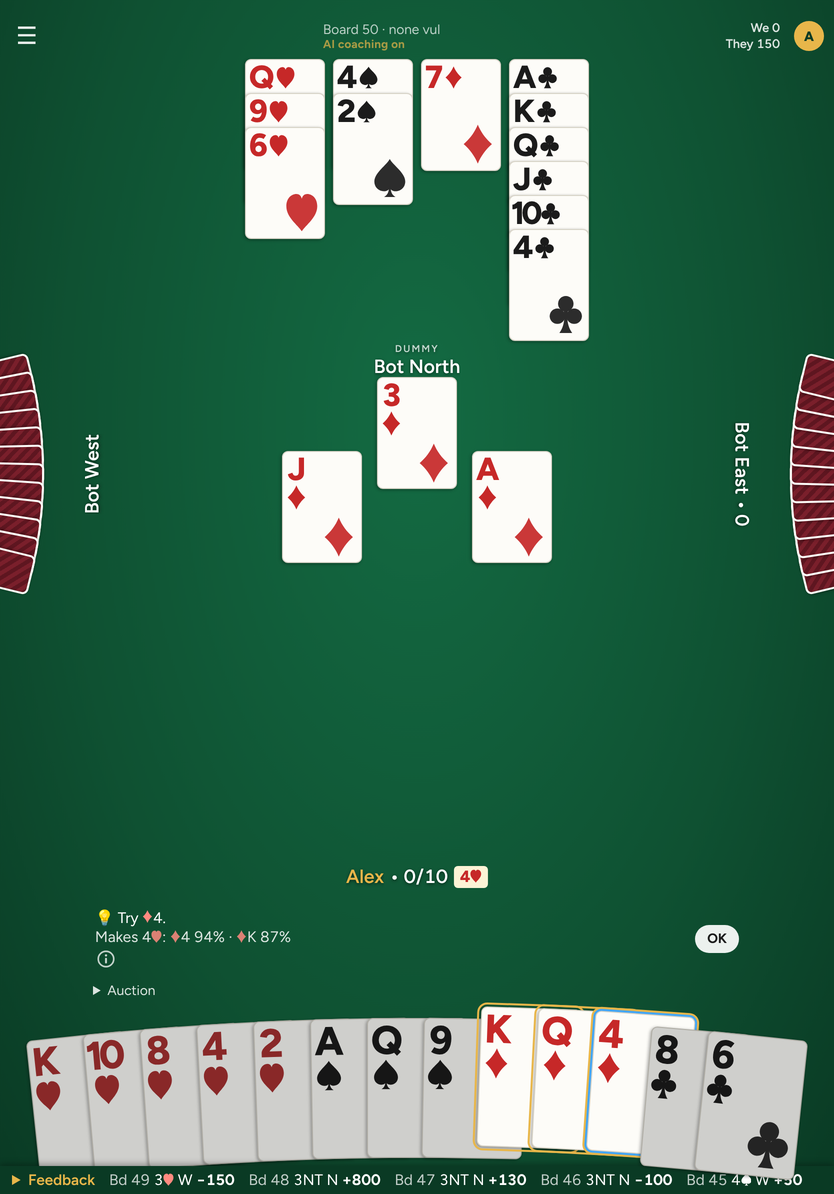
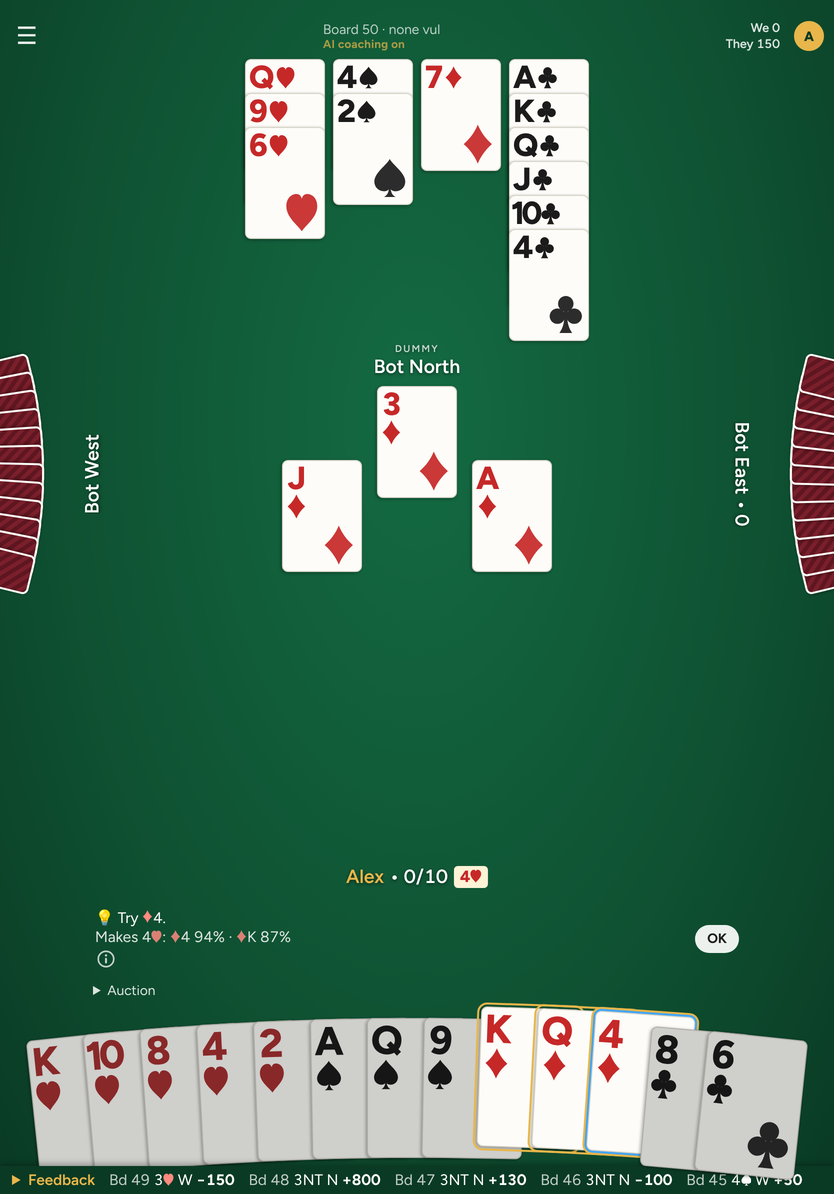
Refresh from the private copy (version 2.48) (#2)

diff --git a/web/src/components/TableView.tsx b/web/src/components/TableView.tsx
@@ -1,4 +1,4 @@
-import { lazy, Suspense, useCallback, useEffect, useMemo, useRef, useState } from "react";
+import { lazy, Suspense, useCallback, useEffect, useLayoutEffect, useMemo, useRef, useState } from "react";
 import { SEAT_NAME, SUIT_SYMBOL, callLabel, cardLabel, compass, isRed, partnerOf, sameSide, signed } from "../cards";
 import { loadToken, type Account, type FriendsView } from "../account";
 import { REMEMBERED, reducedMotion, usePrefs } from "../prefs";
@@ -11,6 +11,7 @@ import BidTiles from "./BidTiles";
 import DealAnimation from "./DealAnimation";
 import CardWhy from "./CardWhy";
 import Dummy from "./Dummy";
+import { useDummyFit } from "./useDummyFit";
 import { HintsInfo } from "./Explain";
 import Fan from "./Fan";
 import Feedback from "./Feedback";
@@ -54,7 +55,9 @@ interface Props {
   inviting?: boolean; // the lobby's Invite for a friend with notifications off: open Invite to game to send a link
   coachOff?: boolean; // a table the AI coach can't see now (on this phone with no internet, or not signed in)
   onLocalInvite?: () => Promise<boolean>; // Invite at a bot table on this phone: true once it moved to the server
-  where?: "local" | "wifi"; // the table is on this phone, or on a partner's phone over the Wi-Fi (offline.ts, wifi.ts)
+  // the table is on this phone, or on a partner's phone over the Wi-Fi (offline.ts, wifi.ts), or a bot table of this
+  // phone's kept on the server for an invite (App.tsx)
+  where?: "local" | "wifi" | "invite";
 }
 
 
@@ -137,6 +140,9 @@ export default function TableView({ state, hint, hintPending, askHint, error, co
   const wide = useMedia("(min-width: 820px) and (min-height: 600px)");
   const short = useMedia("(max-height: 900px)");
   const holdTimer = useRef<number | undefined>(undefined);
+  const tblRef = useRef<HTMLDivElement>(null);
+  const topDummy = (wide ? (short ? SIZES.wideShort : SIZES.wide) : SIZES.phone).dummy;
+  const dummyFit = useDummyFit(tblRef, topDummy[0], topDummy[1]); // a long suit in dummy stays clear of the trick
   const tricksSeen = useRef<{ board: number; n: number }>({ board: 0, n: 0 });
   const lastPlaying = useRef<TableState | null>(null);
 
@@ -176,8 +182,8 @@ export default function TableView({ state, hint, hintPending, askHint, error, co
     setHolding(false);
   };
 
-  // deal the cards around the table at the start of each board
-  useEffect(() => {
+  // deal the cards around the table at the start of each board (before the first paint, so the hand never shows first)
+  useLayoutEffect(() => {
     if (!t || !state || t.phase !== "bidding" || t.auction.length > 0) return;
     if (!prefs.dealAnimation || reducedMotion() || dealtBefore(`${state.room}/${t.board}`)) return;
     setDealing(true);
@@ -550,8 +556,8 @@ export default function TableView({ state, hint, hintPending, askHint, error, co
               playable={playable(s)}
               onPlay={myTurnToPlay ? play : undefined}
               hinted={hintedCard}
-              w={where === "top" ? size.dummy[0] : size.sideDummy[0]}
-              h={where === "top" ? size.dummy[1] : size.sideDummy[1]}
+              w={where === "top" ? Math.round(size.dummy[0] * (dummyFit.scale ?? 1)) : size.sideDummy[0]}
+              h={where === "top" ? Math.round(size.dummy[1] * (dummyFit.scale ?? 1)) : size.sideDummy[1]}
               layout={where !== "top" ? "side" : wide ? "columns" : "row"}
             />
             {where === "top" && label(s, where, true)}
@@ -805,8 +811,8 @@ export default function TableView({ state, hint, hintPending, askHint, error, co
           }
         />
       ) : (
-        <div className={`play-layout ${bidding ? "bidding" : "playing"}`}>
-          <div className={`tbl ${view.phase === "playing" && view.dummy ? `dummy-${at[view.dummy]}` : ""}`}>
+        <div className={`play-layout ${bidding ? "bidding" : "playing"} ${dealing ? "dealing" : ""}`}>
+          <div ref={tblRef} className={`tbl ${view.phase === "playing" && view.dummy ? `dummy-${at[view.dummy]}` : ""}`}>
             {otherSeat(pos.top, "top")}
             {otherSeat(pos.left, "left")}
             {otherSeat(pos.right, "right")}
@@ -817,6 +823,7 @@ export default function TableView({ state, hint, hintPending, askHint, error, co
                 trick={shown}
                 me={me}
                 banner={banner}
+                top={dummyFit.top}
                 onTap={showingHeld ? endHold : undefined}
                 explained={view.card_why}
                 onCard={(card, seat) => setOpenCard(openCard?.card === card ? null : { card, seat })}

diff --git a/web/src/components/useDummyFit.ts b/web/src/components/useDummyFit.ts
@@ -1,0 +1,59 @@
+import { useCallback, useEffect, useLayoutEffect, useRef, useState, type RefObject } from "react";
+import { dummyStep } from "./Dummy";
+
+type Fit = { scale?: number; top?: number };
+
+/**
+ * Dummy across the top in suit columns: a long suit runs down the table and can reach the trick, which would then lie
+ * over dummy's lowest cards so they can't be tapped. When it would, the trick moves down (as far as your name at the
+ * bottom allows), and only if that isn't enough are dummy's cards drawn smaller, so every card shows in full.
+ * Returns the size to draw dummy's cards at (a fraction of w and h) and the trick's center (px from the table's top),
+ * or nothing when all is clear. w and h are dummy's usual card size.
+ */
+export function useDummyFit(tbl: RefObject<HTMLDivElement | null>, w: number, h: number): Fit {
+  const [fit, setFit] = useState<Fit>({});
+  const measure = useCallback(() => {
+    const el = tbl.current;
+    const cols = el ? [...el.querySelectorAll<HTMLElement>(".dummy-wrap.top .dummy.columns .dcol")] : [];
+    const trick = el?.querySelector<HTMLElement>(".trick-area");
+    let next: Fit = {};
+    if (el && cols.length && trick) {
+      const n = Math.max(...cols.map((c) => c.children.length));
+      const full = h + (n - 1) * dummyStep(w); // the longest column at the usual size
+      const GAP = 8; // between dummy's name and the trick, and between the trick and your name
+      const TOP = 4; // .dummy-wrap.top
+      const name = el.querySelector<HTMLElement>(".dummy-wrap.top .seatlbl")?.offsetHeight ?? 0;
+      const mine = el.querySelector<HTMLElement>(".seatlbl.bottom")?.offsetHeight ?? 0;
+      const half = trick.offsetHeight / 2;
+      // where the stylesheet puts the trick (offsetTop leaves out the centering transform, so it is the center)
+      const was = trick.style.top;
+      trick.style.top = "";
+      const natural = trick.offsetTop;
+      trick.style.top = was;
+      const room = (center: number) => center - half - GAP - name - 2 - TOP; // for the column, above the trick
+      const below = (column: number) => TOP + column + 2 + name + GAP + half; // the trick's center just below it
+      const lowest = Math.max(natural, el.clientHeight - 4 - mine - GAP - half);
+      if (full > room(natural)) {
+        const scale = full > room(lowest) ? Math.max(0.55, room(lowest) / full) : 1;
+        const center = Math.min(lowest, below(full * scale));
+        next = { scale: scale < 1 ? Math.floor(scale * 100) / 100 : undefined, top: center > natural ? Math.round(center) : undefined };
+      }
+    }
+    setFit((f) => (f.scale === next.scale && f.top === next.top ? f : next));
+  }, [tbl, w, h]);
+  // after every render (a card played, the hand turned) and whenever the table changes size
+  useLayoutEffect(measure);
+  const watched = useRef<{ el: HTMLElement; ro: ResizeObserver } | null>(null);
+  useEffect(() => {
+    const el = tbl.current;
+    if (watched.current?.el === el) return;
+    watched.current?.ro.disconnect();
+    watched.current = null;
+    if (!el || typeof ResizeObserver === "undefined") return;
+    const ro = new ResizeObserver(() => measure());
+    ro.observe(el);
+    watched.current = { el, ro };
+  });
+  useEffect(() => () => watched.current?.ro.disconnect(), []);
+  return fit;
+}

diff --git a/web/src/App.tsx b/web/src/App.tsx
@@ -160,16 +160,34 @@ export default function App() {
     // eslint-disable-next-line react-hooks/exhaustive-deps
   }, [session?.local, session?.token, phase]);
 
+  // a table that went to the server for an invite stays there until someone joins it. Once they have, it's an
+  // ordinary table with people: when it's down to you and the bots again, it comes back to this phone (below).
+  const people = state?.room === session?.room ? Object.keys(state?.players ?? {}).length : 0;
+  useEffect(() => {
+    if (session?.stay && people > 1) update({ ...session, stay: undefined });
+    // eslint-disable-next-line react-hooks/exhaustive-deps
+  }, [session?.stay, people]);
+
   // the other way: a bot table on the server comes to this phone between boards (bots play here by default), unless
-  // it went there for an invite. The server sends this phone a copy of it after each change (connection.ts).
+  // it went there for an invite. The server sends this phone a copy of it after each change while you're the only
+  // person at it (connection.ts), so a table a partner just left comes too, rubber score and all.
   useEffect(() => {
     if (!session || session.local || session.wifi || session.stay || session.watch || phase !== "done") return;
-    if (!botsHere() || !offlineReady() || !canCarryOn(session.room)) return;
-    carryOn(session.room);
-    history.replaceState(null, "", "/");
-    update({ ...session, local: true, fresh: undefined, user: account.user ? { id: account.user.id, name: account.user.name } : undefined });
+    if (!botsHere() || !offlineReady()) return;
+    const s = session;
+    const come = () => {
+      if (!canCarryOn(s.room)) return false;
+      carryOn(s.room);
+      history.replaceState(null, "", "/");
+      update({ ...s, local: true, fresh: undefined, user: account.user ? { id: account.user.id, name: account.user.name } : undefined });
+      return true;
+    };
+    if (come()) return;
+    // the copy comes just after the table's news, so a partner leaving as the board ends needs a moment
+    const soon = window.setTimeout(come, 1500);
+    return () => clearTimeout(soon);
     // eslint-disable-next-line react-hooks/exhaustive-deps
-  }, [session?.room, session?.local, phase]);
+  }, [session?.room, session?.local, session?.stay, phase, people]);
 
   // a bot table on this phone, signed in: a copy goes to your account after each change, so your iPad (say) can carry
   // on with it, and your AI coach can see it. If another device has carried on with it, this phone follows.
@@ -443,7 +461,7 @@ export default function App() {
         account={account}
         friends={friends}
         inviting={inviting}
-        where={session.local ? "local" : session.wifi ? "wifi" : undefined}
+        where={session.local ? "local" : session.wifi ? "wifi" : session.stay ? "invite" : undefined}
       />
       {moved && (
         <div className="sheet-backdrop moved-backdrop">

diff --git a/web/src/components/TrickArea.tsx b/web/src/components/TrickArea.tsx
@@ -3,7 +3,7 @@ import type { Seat, Trick } from "../types";
 import PlayingCard from "./PlayingCard";
 
 /** The cards of one trick in the middle of the table, each in front of the seat that played it. */
-export default function TrickArea({ trick, me, banner, onTap, costly, onCard, explained }: {
+export default function TrickArea({ trick, me, banner, onTap, costly, onCard, explained, top }: {
   trick: Trick | null;
   costly?: string; // ringed: the card a review is about
   me: Seat;
@@ -11,11 +11,12 @@ export default function TrickArea({ trick, me, banner, onTap, costly, onCard, ex
   onTap?: () => void;
   onCard?: (card: string, seat: Seat) => void; // tap a bot's played card: how it picked it
   explained?: Record<string, unknown>; // the cards that can be tapped
+  top?: number; // px: where the trick's center sits, when dummy's long suit pushes it down
 }) {
   const pos = compass(me);
   const where: Record<Seat, string> = { [pos.top]: "top", [pos.left]: "left", [pos.right]: "right", [pos.bottom]: "bottom" } as Record<Seat, string>;
   return (
-    <div className="trick-area" onClick={(e) => !(e.target as Element).closest?.(".pc[role=button]") && onTap?.()}>
+    <div className={`trick-area ${onTap ? "tap" : ""}`} style={top === undefined ? undefined : { top }} onClick={(e) => !(e.target as Element).closest?.(".pc[role=button]") && onTap?.()}>
       {trick?.cards.map(({ seat, card }) => (
         <PlayingCard
           key={card}

diff --git a/web/src/components/DeviceSettings.tsx b/web/src/components/DeviceSettings.tsx
@@ -38,8 +38,9 @@ export default function DeviceSettings({ prefs, onPrefs }: { prefs: Prefs; onPre
 }
 
 /** Where bot tables are played, in the ☰ menu: on this phone (the default, and the only way with no internet) or on
- * the server. A change applies at the end of the board (App.tsx moves the table). */
-export function BotsHere() {
+ * the server. A change applies at the end of the board (App.tsx moves the table). `server` says why this table is on
+ * the server for now although the box is ticked: another person is at it, or an invite is out. */
+export function BotsHere({ server }: { server?: string }) {
   const [here, setHere] = useState(botsHere);
   const [ready, setReady] = useState(offlineReady);
   const [got, setGot] = useState(0);
@@ -70,9 +71,11 @@ export function BotsHere() {
           <span className="muted">
             {!here
               ? `The server plays the bots. This ${device} takes over if the internet drops.`
-              : ready
-                ? `Bots play on this ${device}, with or without internet.`
-                : `Getting ready to play without internet… ${Math.round(got * 100)}%`}
+              : server && ready
+                ? server
+                : ready
+                  ? `Bots play on this ${device}, with or without internet.`
+                  : `Getting ready to play without internet… ${Math.round(got * 100)}%`}
           </span>
         </span>
       </label>

diff --git a/web/src/components/SettingsPanel.tsx b/web/src/components/SettingsPanel.tsx
@@ -23,7 +23,7 @@ export default function SettingsPanel({ settings, onChange, onClose, onLeave, on
   onInvite?: () => void; // signed in: pick friends to invite (otherwise Invite to game shares a link)
   onPractice?: (id: string) => void; // the home screen: start a bot table on this practice
   room?: string; // none on the home screen
-  where?: "local" | "wifi"; // a table on this phone (with no internet, Invite asks a partner on this Wi-Fi), or on a partner's
+  where?: "local" | "wifi" | "invite"; // "invite": a bot table kept on the server so a friend can join; or a table on this phone (with no internet, Invite asks a partner on this Wi-Fi), or on a partner's
 }) {
   const home = !room;
   const [conventions, setConventions] = useState<ConventionInfo[]>([]);
@@ -123,7 +123,11 @@ export default function SettingsPanel({ settings, onChange, onClose, onLeave, on
             </div>
           </div>
         )}
-        {where !== "wifi" && <BotsHere />}
+        {where !== "wifi" && (
+          <BotsHere
+            server={home || where === "local" ? undefined : others ? "On the server while a partner is here." : where === "invite" ? "On the server so a friend can join." : undefined}
+          />
+        )}
         <h3>{home ? "New tables" : "This table"}</h3>
         <p className="muted">{home ? "Your new tables start with these." : "These apply to everyone at the table."}</p>
         <label>

diff --git a/web/src/styles.css b/web/src/styles.css
@@ -251,6 +251,9 @@ a { color: var(--gold); text-underline-offset: 3px; }
 
 /* the trick */
 .trick-area { --w: 54px; --h: 76px; position: absolute; left: 50%; top: 54%; width: 176px; height: 176px; transform: translate(-50%, -50%); z-index: 4; }
+/* the empty space around the played cards lets taps through to dummy's cards, unless a tap ends a held trick */
+.trick-area:not(.tap) { pointer-events: none; }
+.trick-area > * { pointer-events: auto; }
 .trick-area .pc.top { left: calc(50% - var(--w) / 2); top: 0; }
 .trick-area .pc.bottom { left: calc(50% - var(--w) / 2); bottom: 0; }
 .trick-area .pc.left { left: 0; top: calc(50% - var(--h) / 2); }
@@ -333,6 +336,8 @@ a { color: var(--gold); text-underline-offset: 3px; }
 
 /* deal */
 .deal-overlay { position: absolute; inset: 0; z-index: 50; background: radial-gradient(ellipse at 50% 40%, var(--felt-light), var(--felt) 70%); }
+/* the hands stay hidden until the deal is done: the fan reaches past the overlay at the bottom edge */
+.play-layout.dealing .myfan, .play-layout.dealing .seatfan { visibility: hidden; }
 .deal-overlay .flyer { --w: 46px; --h: 64px; left: calc(50% - 23px); top: calc(50% - 32px); }
 .wide .deal-overlay .flyer { --w: 64px; --h: 90px; left: calc(50% - 32px); top: calc(50% - 45px); }
 

diff --git a/web/src/components/Dummy.tsx b/web/src/components/Dummy.tsx
@@ -4,6 +4,9 @@ import PlayingCard from "./PlayingCard";
 
 const HIGH = "AKQJT98765432";
 
+/** How far each card in a column (or side row) sits below (or beside) the one before it. */
+export const dummyStep = (w: number, side = false) => Math.round(w * (side ? 0.44 : 0.42));
+
 /**
  * Dummy as it lies on the table, trumps first (on declarer's left).
  * "columns": a column per suit, highest card at the top, each overlapping the next (iPad).
@@ -52,7 +55,7 @@ export default function Dummy({ cards, trump, playable = [], onPlay, hinted, w, 
   }
 
   const side = layout === "side";
-  const step = Math.round(w * (side ? 0.44 : 0.42));
+  const step = dummyStep(w, side);
   return (
     <div className={`dummy ${layout}`}>
       {bySuit.map((col, k) => {

diff --git a/web/src/components/ScoreSheet.tsx b/web/src/components/ScoreSheet.tsx
@@ -62,7 +62,7 @@ export default function ScoreSheet({ state, me, onClose }: { state: RoomState; m
                   <tr key={h.board}>
                     <td>{h.board}</td>
                     <td>
-                      <SuitText text={h.contract ? `${h.contract.level}${SUIT_SYMBOL[h.contract.strain]}${"X".repeat(h.contract.doubled)} ${h.contract.declarer}` : "Passed"} />
+                      <SuitText text={h.contract ? `${h.contract.level}${SUIT_SYMBOL[h.contract.strain]}${"X".repeat(Math.min(Math.max(h.contract.doubled, 0), 2))} ${h.contract.declarer}` : "Passed"} />
                     </td>
                     <td>{h.contract ? h.tricks : "–"}</td>
                     <td className={mine < 0 ? "minus-ink" : ""}>{signed(mine)}</td>

diff --git a/web/src/connection.ts b/web/src/connection.ts
@@ -125,7 +125,7 @@ export function useRoom(session: Session | null, onSession: (s: Session) => void
     const connect = () => {
       const s = sessionRef.current!;
       const proto = location.protocol === "https:" ? "wss" : "ws";
-      const ws: Sock = s.local ? new LocalSocket(s.room, s.fresh) : s.wifi ? new WifiSocket() : (new WebSocket(`${proto}://${location.host}/ws/${s.room}`) as unknown as Sock);
+      const ws: Sock = s.local ? new LocalSocket(s.room, s.fresh) : s.wifi ? new WifiSocket() : (new WebSocket(`${proto}://${location.host}/ws/${encodeURIComponent(s.room)}`) as unknown as Sock);
       wsRef.current = ws;
       revRef.current = 0;
       ws.onopen = () => {

diff --git a/web/src/components/Explain.tsx b/web/src/components/Explain.tsx
@@ -355,7 +355,8 @@ export function PlayLocallyInfo({ device }: { device: string }) {
       </p>
       <p>
         <strong>With internet,</strong> your boards still go to My stats, your AI coach can see the table, and your other
-        devices can pick up where you left off. Inviting a friend moves the table to the server so they can join.
+        devices can pick up where you left off. Inviting a friend moves the table to the server so they can join. It
+        comes back to this {device} once you're the only one at it again.
       </p>
       <p>
         <strong>With no internet,</strong> finished boards wait on this {device} and go to My stats once it's back

diff --git a/web/src/components/Fan.tsx b/web/src/components/Fan.tsx
@@ -31,7 +31,7 @@ export default function Fan({ cards, w, h, spread = 50, playable, onPlay, hinted
     setWidth(el.clientWidth);
     return () => ro.disconnect();
   }, []);
-  const list = typeof cards === "number" ? Array<string | null>(cards).fill(null) : sortFan(cards, trump);
+  const list = typeof cards === "number" ? Array<string | null>(Math.min(Math.max(cards, 0), 13)).fill(null) : sortFan(cards, trump);
   const n = list.length;
   const half = ((spread / 2) * Math.PI) / 180;
   const span = Math.max(w, width - w - 8); // room for the cards' centers to travel
